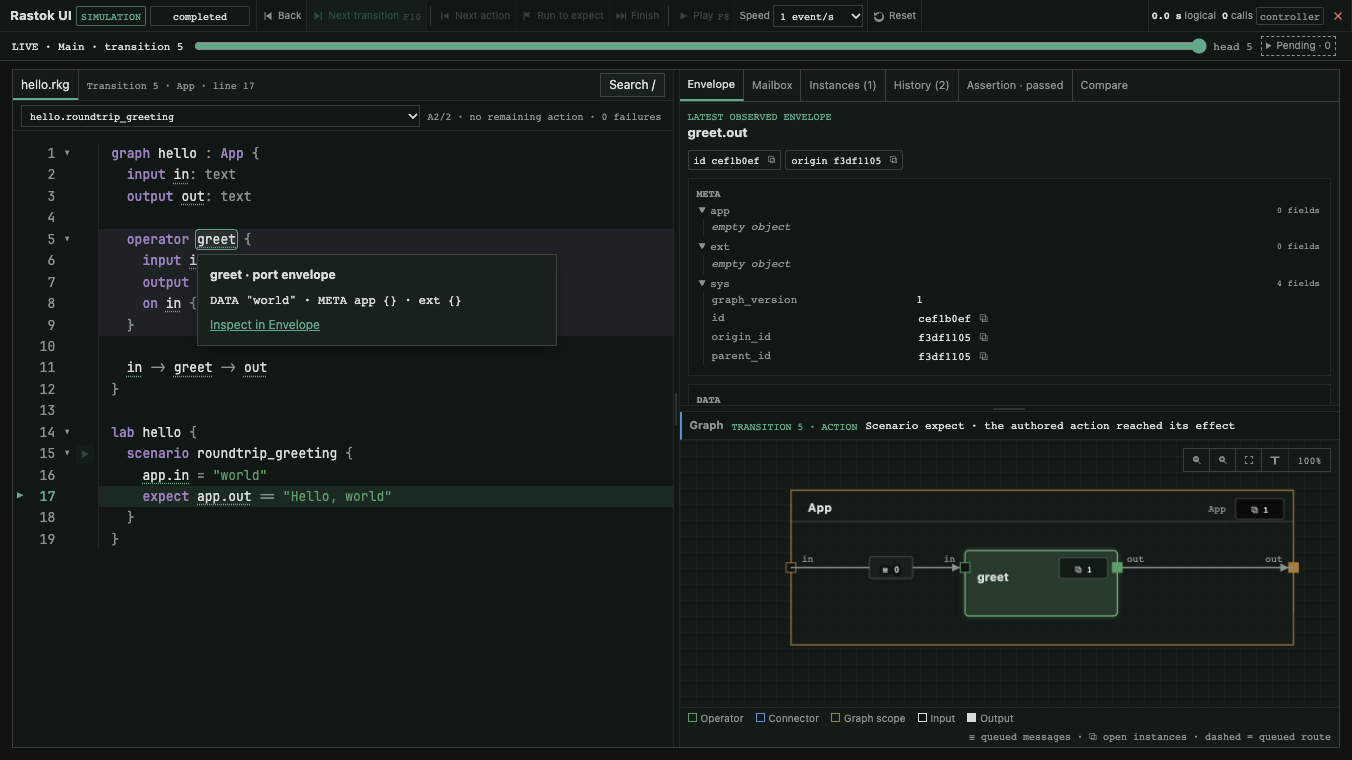
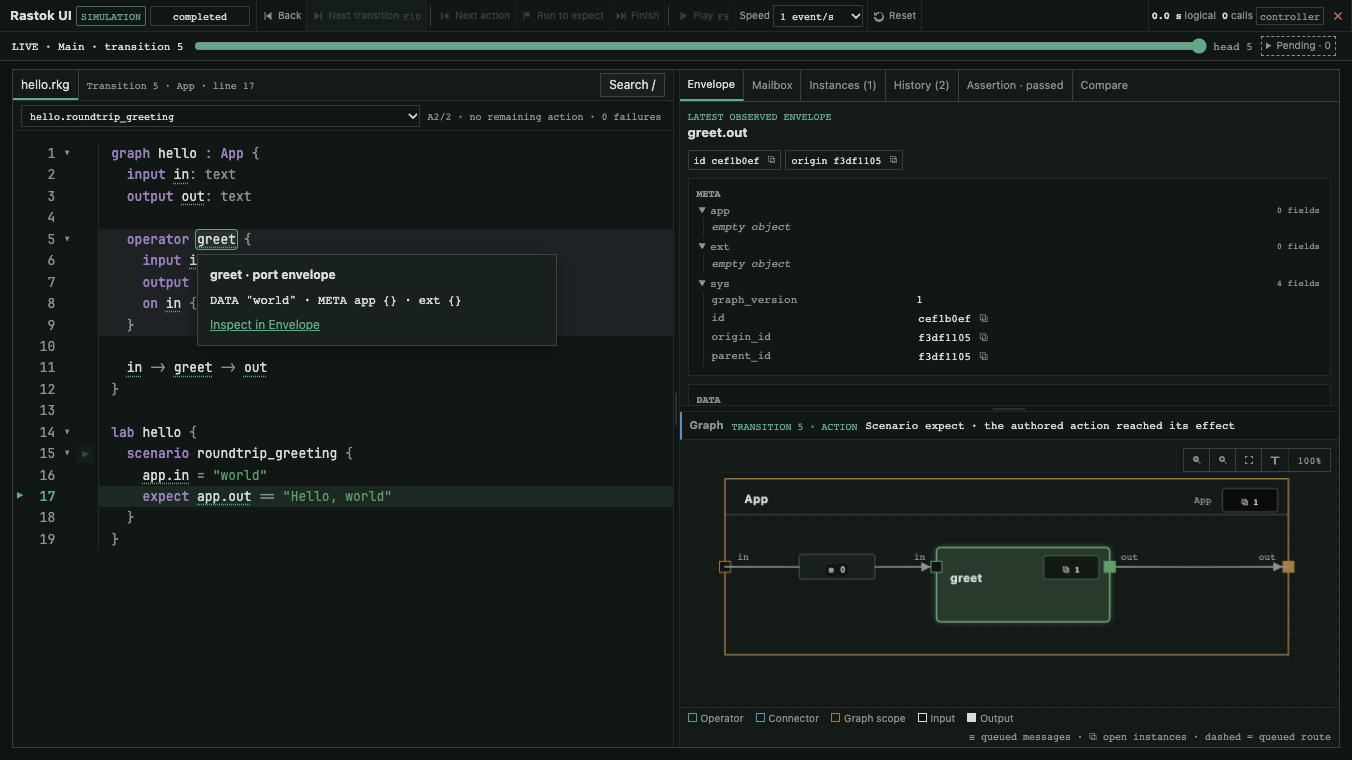
Compact graph gutters without shrinking labels or nodes
Reserve horizontal space for the actual tracks and for each mailbox after its own track. Nested frames no longer repeat outer App gutters; long facing input labels retain their own mailbox clearance. Node dimensions, text size, topology and cached geometry remain unchanged by counter updates.

The eight gallery drawings, the additional chat graph, the synthetic graph and the larger graph gain no route crossing, route overlap or node-body intersection. Thirty-five layout tests, including 300 fixed-seed topologies, pass. Both debug and optimized browser suites pass 65 tests. The eight public captures are regenerated from the optimized debugger, including the APNG tour, with source and binary provenance.

Assisted-by: OpenAI GPT-6 Astra (reasoning effort: max)
Assisted-by: Anthropic Claude Fable 5.2 (reasoning effort: max)

Changed region(s): [[0.5592, 0.6355, 0.963, 0.8776], [0.5281, 0.6961, 0.8698, 0.8171], [0.5281, 0.6355, 0.6213, 0.6961]]

diff --git a/crates/rastok/src/ui/graph_layout.js b/crates/rastok/src/ui/graph_layout.js
@@ -24,9 +24,9 @@
   const TRACK_SPACING = 12;
   const BOX_EDGE_CLEARANCE = 6;
   const FAN_STUB = 16;
-  const ROOT_INPUT_GUTTER = 82;
-  const ROOT_CONTENT_GUTTER = 144;
-  const ROOT_OUTPUT_GUTTER = 112;
+  const ROOT_INPUT_GUTTER = 24;
+  const ROOT_CONTENT_GUTTER = 128;
+  const ROOT_OUTPUT_GUTTER = 96;
   const EDGE_COUNTER_WIDTH = 36;
   const EDGE_COUNTER_HEIGHT = 18;
   const PORT_LABEL_CLEARANCE = 16;
@@ -140,7 +140,7 @@
       const graph = materializeGraph({ nodes: direct, edges: localEdges.get(ownerId),
         owners: [{ ...owner, parent: null, ports: drawingPorts.get(ownerId) }] });
       const layout = layoutFlatGraph(graph.nodes, graph.edges,
-        [{ ...owner, parent: null, ports: drawingPorts.get(ownerId) }]);
+        [{ ...owner, parent: null, ports: drawingPorts.get(ownerId) }], ownerId !== root.id);
       local.set(ownerId, { graph, layout });
     }
     arrange(root.id);
@@ -170,7 +170,7 @@
     return result;
   }
 
-  function layoutFlatGraph(nodes, edges, owners) {
+  function layoutFlatGraph(nodes, edges, owners, nestedScope = false) {
     const originalNodes = nodes;
     const byId = new Map(nodes.map((node, index) => [node.id, { node, index }]));
     const incoming = new Map(nodes.map((node) => [node.id, 0]));
@@ -407,8 +407,10 @@
             : layered.edges.filter(edge => (rank.get(edge.source.id) === level
             && rank.get(edge.target.id) === nextLevel) || (rank.get(edge.source.id) === rank.get(edge.target.id)
               && [level, nextLevel].includes(rank.get(edge.source.id)))).length;
-          const gap = Math.max(columnGap, outputLabels + inputLabels + 48 + tracks * TRACK_SPACING,
-            channelSpace?.get(channelKey)?.gap || 0);
+          const measuredGap = channelSpace?.get(channelKey)?.gap;
+          const gap = measuredGap === undefined
+            ? Math.max(columnGap, outputLabels + inputLabels + 48 + tracks * TRACK_SPACING)
+            : Math.max(FAN_STUB * 4, outputLabels + inputLabels + BOX_EDGE_CLEARANCE * 2, measuredGap);
           columnGaps.set(channelKey, gap);
           x += width + gap;
         }
@@ -519,8 +521,22 @@
           .filter(port => port.direction === "input").map(port => textWidth(port.display_label || port.name))));
         const returnPadding = returnCount ? FAN_STUB + inputLabels
           + returnCount * (TRACK_SPACING + 3) + BOX_EDGE_CLEARANCE : 0;
+        const firstColumn = Math.min(...components.map(component => component.left));
+        const boundaryLabel = Math.max(0, ...(ownerMap.get(ownerId)?.ports || [])
+          // Unresolved seams have routing attachments, not visible labels.
+          .filter(port => port.direction === "input" && !port.name.startsWith("routing:"))
+          .map(port => textWidth(port.display_label || port.name)));
+        const firstInputLabel = Math.max(0, ...(directNodes.get(ownerId) || [])
+          .filter(node => node.kind !== "boundary" && node.kind !== "scope"
+            && positions.get(node.id)?.x === firstColumn)
+          .flatMap(node => (node.ports || []).filter(port => port.direction === "input")
+            .map(port => textWidth(port.display_label || port.name))));
+        // Each scope input has two facing labels as well as its mailbox.
+        // Compact only unused space: long labels cannot borrow the badge slot.
+        const inputPadding = 9 + boundaryLabel + Math.max(EDGE_COUNTER_WIDTH, textWidth("≡ 0000") + 8)
+          + PORT_LABEL_CLEARANCE * 2 + BOX_EDGE_CLEARANCE * 2 + firstInputLabel + 8;
         const leftPadding = Math.max(returnPadding, hasInput
-          ? ownerId === rootOwner.id ? ROOT_CONTENT_GUTTER : 64
+          ? Math.max(ownerId === rootOwner.id && !nestedScope ? ROOT_CONTENT_GUTTER : 64, inputPadding)
           : SCOPE_PADDING * 2);
         let left = components.length ? Math.min(...components.map((component) => component.left)) - leftPadding : 42;
         const rootResultLabelWidth = Math.max(
@@ -534,7 +550,7 @@
           + PORT_LABEL_CLEARANCE * 2
           + 28;
         const rightPadding = Math.max(returnPadding, ownerId === rootOwner.id
-          ? Math.max(ROOT_OUTPUT_GUTTER, resultLaneWidth)
+          ? nestedScope ? 64 : Math.max(ROOT_OUTPUT_GUTTER, resultLaneWidth)
           : 64);
         let right = components.length ? Math.max(...components.map((component) => component.right)) + rightPadding : left + 190;
         if (right - left < 190) {
@@ -1263,14 +1279,19 @@
       const badgeWidth = Math.max(EDGE_COUNTER_WIDTH, textWidth("≡ 0000") + 8);
       // A short bend at a shared pin has no exclusive vertical span for its
       // mailbox. Leave a horizontal slot before the receiving port label.
-      const badgeSpace = spans.some(span => pinApproaches.has(span.from) && pinApproaches.has(span.to)
+      const needsBadgeSpace = span => pinApproaches.has(span.from) && pinApproaches.has(span.to)
         && (sharedApproaches.has(span.from) || sharedApproaches.has(span.to))
-        && Math.abs(span.from.y - span.to.y) < EDGE_COUNTER_HEIGHT + CORNER_RADIUS * 2)
-        ? badgeWidth + PORT_LABEL_CLEARANCE : 0;
+        && Math.abs(span.from.y - span.to.y) < EDGE_COUNTER_HEIGHT + CORNER_RADIUS * 2;
+      const badgeSpace = spans.some(needsBadgeSpace) ? CORNER_RADIUS + badgeWidth + PORT_LABEL_CLEARANCE : 0;
+      // A badge reserves space after its own track, not after every track in
+      // the channel. Earlier bends can use the width already needed by later ones.
+      const requiredWidth = Math.max(TRACK_SPACING * (trackCount + 1),
+        ...ordered.filter(item => needsBadgeSpace(item.span))
+          .map(item => TRACK_SPACING * (item.track + 1) + badgeSpace));
       // The track count alone omits fan-out stubs and inverted-port turns.
       // Keep their measured footprint when compacting this column gap.
       channelSpace?.set(key, { tracks: trackCount, gap: gap === undefined ? 0
-        : Math.ceil(gap - (right - minimum) + TRACK_SPACING * (trackCount + 1) + badgeSpace - 1e-6) });
+        : Math.ceil(gap - (right - minimum) + requiredWidth - 1e-6) });
       // Keep a straight receiving span long enough for a mailbox badge when
       // the channel permits it, without squeezing its ordered tracks together.
       const maximum = Math.min(right, Math.max(minimum + TRACK_SPACING * (trackCount + 1), right - Math.max(badgeWidth, badgeSpace)));
@@ -1379,19 +1400,36 @@
     // A label only collides with samples in its immediate neighborhood.
     // Index once instead of rescanning every curve for each candidate label.
     const sampleCells = new Map();
-    const cellSize = 32;
+    const cellSize = 8;
     for (const [route, samples] of routeSamples) {
-      for (const point of samples) addSample(sampleCells,
-        `${Math.floor(point.x / cellSize)}:${Math.floor(point.y / cellSize)}`, { route, point });
+      for (const point of samples) {
+        const key = `${Math.floor(point.x / cellSize)}:${Math.floor(point.y / cellSize)}`;
+        if (!sampleCells.has(key)) sampleCells.set(key, { samples: [], counts: new Map() });
+        const cell = sampleCells.get(key);
+        cell.samples.push({ route, point });
+        cell.counts.set(route, (cell.counts.get(route) || 0) + 1);
+      }
     }
     const nearby = (box, route) => {
-      const values = [];
+      let count = 0;
+      const clearance = expandBox(box, 5);
       for (let x = Math.floor((box.x - 5) / cellSize); x <= Math.floor((box.x + box.width + 5) / cellSize); x += 1) {
         for (let y = Math.floor((box.y - 5) / cellSize); y <= Math.floor((box.y + box.height + 5) / cellSize); y += 1) {
-          for (const sample of sampleCells.get(`${x}:${y}`) || []) if (sample.route !== route) values.push(sample.point);
+          const cell = sampleCells.get(`${x}:${y}`);
+          if (!cell) continue;
+          // A covered cell contributes its count without revisiting every
+          // sample of parallel pipes. Boundary cells retain the exact test.
+          if (x * cellSize >= clearance.x && (x + 1) * cellSize <= clearance.x + clearance.width
+            && y * cellSize >= clearance.y && (y + 1) * cellSize <= clearance.y + clearance.height) {
+            count += cell.samples.length - (cell.counts.get(route) || 0);
+          } else {
+            for (const sample of cell.samples) {
+              if (sample.route !== route && pointInsideBox(sample.point, clearance)) count += 1;
+            }
+          }
         }
       }
-      return values;
+      return count;
     };
     const fixedObstacles = [...nodeObstacles, ...headerObstacles,
       ...portLabelObstacles.map(obstacle => expandBox(obstacle, PORT_LABEL_CLEARANCE))];
@@ -1408,10 +1446,9 @@
       const preferred = 0.82;
       const fractions = Array.from({ length: 61 }, (_, index) => 0.05 + index * 0.015)
         .sort((left, right) => Math.abs(left - preferred) - Math.abs(right - preferred) || left - right);
-      const candidates = fractions.map((fraction, order) => ({
-          center: pointAtPolylineFraction(samples, fraction),
-          order,
-        }));
+      const centers = pointsAtPolylineFractions(samples, [...fractions, 0.5]);
+      const fallbackAnchor = centers.pop();
+      const candidates = centers.map((center, order) => ({ center, order }));
       // In a compact channel a centered badge can cover a neighboring track.
       // It may touch either side of its own vertical run instead, without a
       // leader or a detached counter. Centered candidates win equal scores.
@@ -1442,11 +1479,27 @@
         };
       });
       evaluated.sort((left, right) => left.score - right.score || left.order - right.order);
-      const fallbackAnchor = pointAtPolylineFraction(samples, 0.5);
-      const selected = evaluated[0] || {
+      let selected = evaluated[0] || {
         center: fallbackAnchor,
         box: centeredBox(fallbackAnchor, badge.width, badge.height),
       };
+      // A compact receiving span may leave no centered position clear of
+      // another pipe. Its badge can touch its own horizontal run instead.
+      if (selected.score > 0) {
+        const horizontal = orthogonalSegments(route.points).filter(({ a, b }) => a.y === b.y);
+        for (const center of centers) {
+          if (!horizontal.some(({ a, b }) => center.y === a.y
+            && center.x >= Math.min(a.x, b.x) && center.x <= Math.max(a.x, b.x))) continue;
+          for (const direction of [-1, 1]) {
+            const beside = { x: center.x, y: center.y + direction * badge.height / 2 };
+            const box = centeredBox(beside, badge.width, badge.height);
+            const score = curveLabelCollisionScore(box, layout, fixedObstacles,
+              nearby(box, routeIndex), placed);
+            if (score < selected.score) selected = { center: beside, box, score };
+          }
+          if (selected.score === 0) break;
+        }
+      }
       placed.push(expandBox(selected.box, 6));
       route.label = {
         x: selected.center.x,
@@ -1667,7 +1720,7 @@
   }
 
 
-  function curveLabelCollisionScore(box, layout, obstacles, otherRouteSamples, placed) {
+  function curveLabelCollisionScore(box, layout, obstacles, otherRouteSampleCount, placed) {
     let score = 0;
     if (box.x < 4 || box.y < 4 || box.x + box.width > layout.width - 4 || box.y + box.height > layout.height - 4) {
       score += 1_000_000;
@@ -1678,11 +1731,7 @@
     for (const other of placed) {
       score += overlapArea(box, other) * 20_000;
     }
-    const clearance = expandBox(box, 5);
-    for (const sample of otherRouteSamples) {
-      if (pointInsideBox(sample, clearance)) score += 100_000;
-    }
-    return score;
+    return score + otherRouteSampleCount * 100_000;
   }
 
   function nearestPointOnBox(point, box) {
@@ -1794,9 +1843,8 @@
     return samples;
   }
 
-  function pointAtPolylineFraction(points, fraction) {
-    if (!points.length) return { x: 0, y: 0 };
-    if (points.length === 1) return points[0];
+  function pointsAtPolylineFractions(points, fractions) {
+    if (points.length < 2) return fractions.map(() => points[0] || { x: 0, y: 0 });
     const lengths = [];
     let total = 0;
     for (let index = 1; index < points.length; index += 1) {
@@ -1804,18 +1852,21 @@
       lengths.push(length);
       total += length;
     }
-    let remaining = total * clamp(fraction, 0, 1);
-    for (let index = 0; index < lengths.length; index += 1) {
-      if (remaining <= lengths[index] || index === lengths.length - 1) {
-        const amount = lengths[index] === 0 ? 0 : remaining / lengths[index];
-        return {
-          x: points[index].x + (points[index + 1].x - points[index].x) * amount,
-          y: points[index].y + (points[index + 1].y - points[index].y) * amount,
-        };
+    // Every candidate belongs to the same curve: measure its segments once.
+    return fractions.map(fraction => {
+      let remaining = total * clamp(fraction, 0, 1);
+      for (let index = 0; index < lengths.length; index += 1) {
+        if (remaining <= lengths[index] || index === lengths.length - 1) {
+          const amount = lengths[index] === 0 ? 0 : remaining / lengths[index];
+          return {
+            x: points[index].x + (points[index + 1].x - points[index].x) * amount,
+            y: points[index].y + (points[index + 1].y - points[index].y) * amount,
+          };
+        }
+        remaining -= lengths[index];
       }
-      remaining -= lengths[index];
-    }
-    return points.at(-1);
+      return points.at(-1);
+    });
   }
 
   function pointInsideBox(point, box) {

diff --git a/docs/spec/ui.md b/docs/spec/ui.md
@@ -227,6 +227,14 @@ Boundary positions preserve
 the order chosen by the layer sweeps. An ambiguous
 composition seam does not acquire an invented Graph port. **Status: shipped.**
 
+Horizontal spacing follows the measured channel tracks and the labels and
+mailboxes they must clear. A mailbox reserves space after its own track, not
+after every track in the channel. Nested Graph frames keep local routing
+padding instead of repeating the App's outer gutters. Compaction preserves
+Node dimensions, text size and the left-to-right sequence. Input gutters,
+including those inside nested scopes, retain room for both facing port labels
+and their mailbox, including long names. **Status: shipped.**
+
 Parallel straight spans keep a small clearance from Node bodies and Graph
 frames. Layout reserves room for return tracks between node rows and child
 scopes. A pipe crosses its own node's clearance at its actual pin. Return tracks
